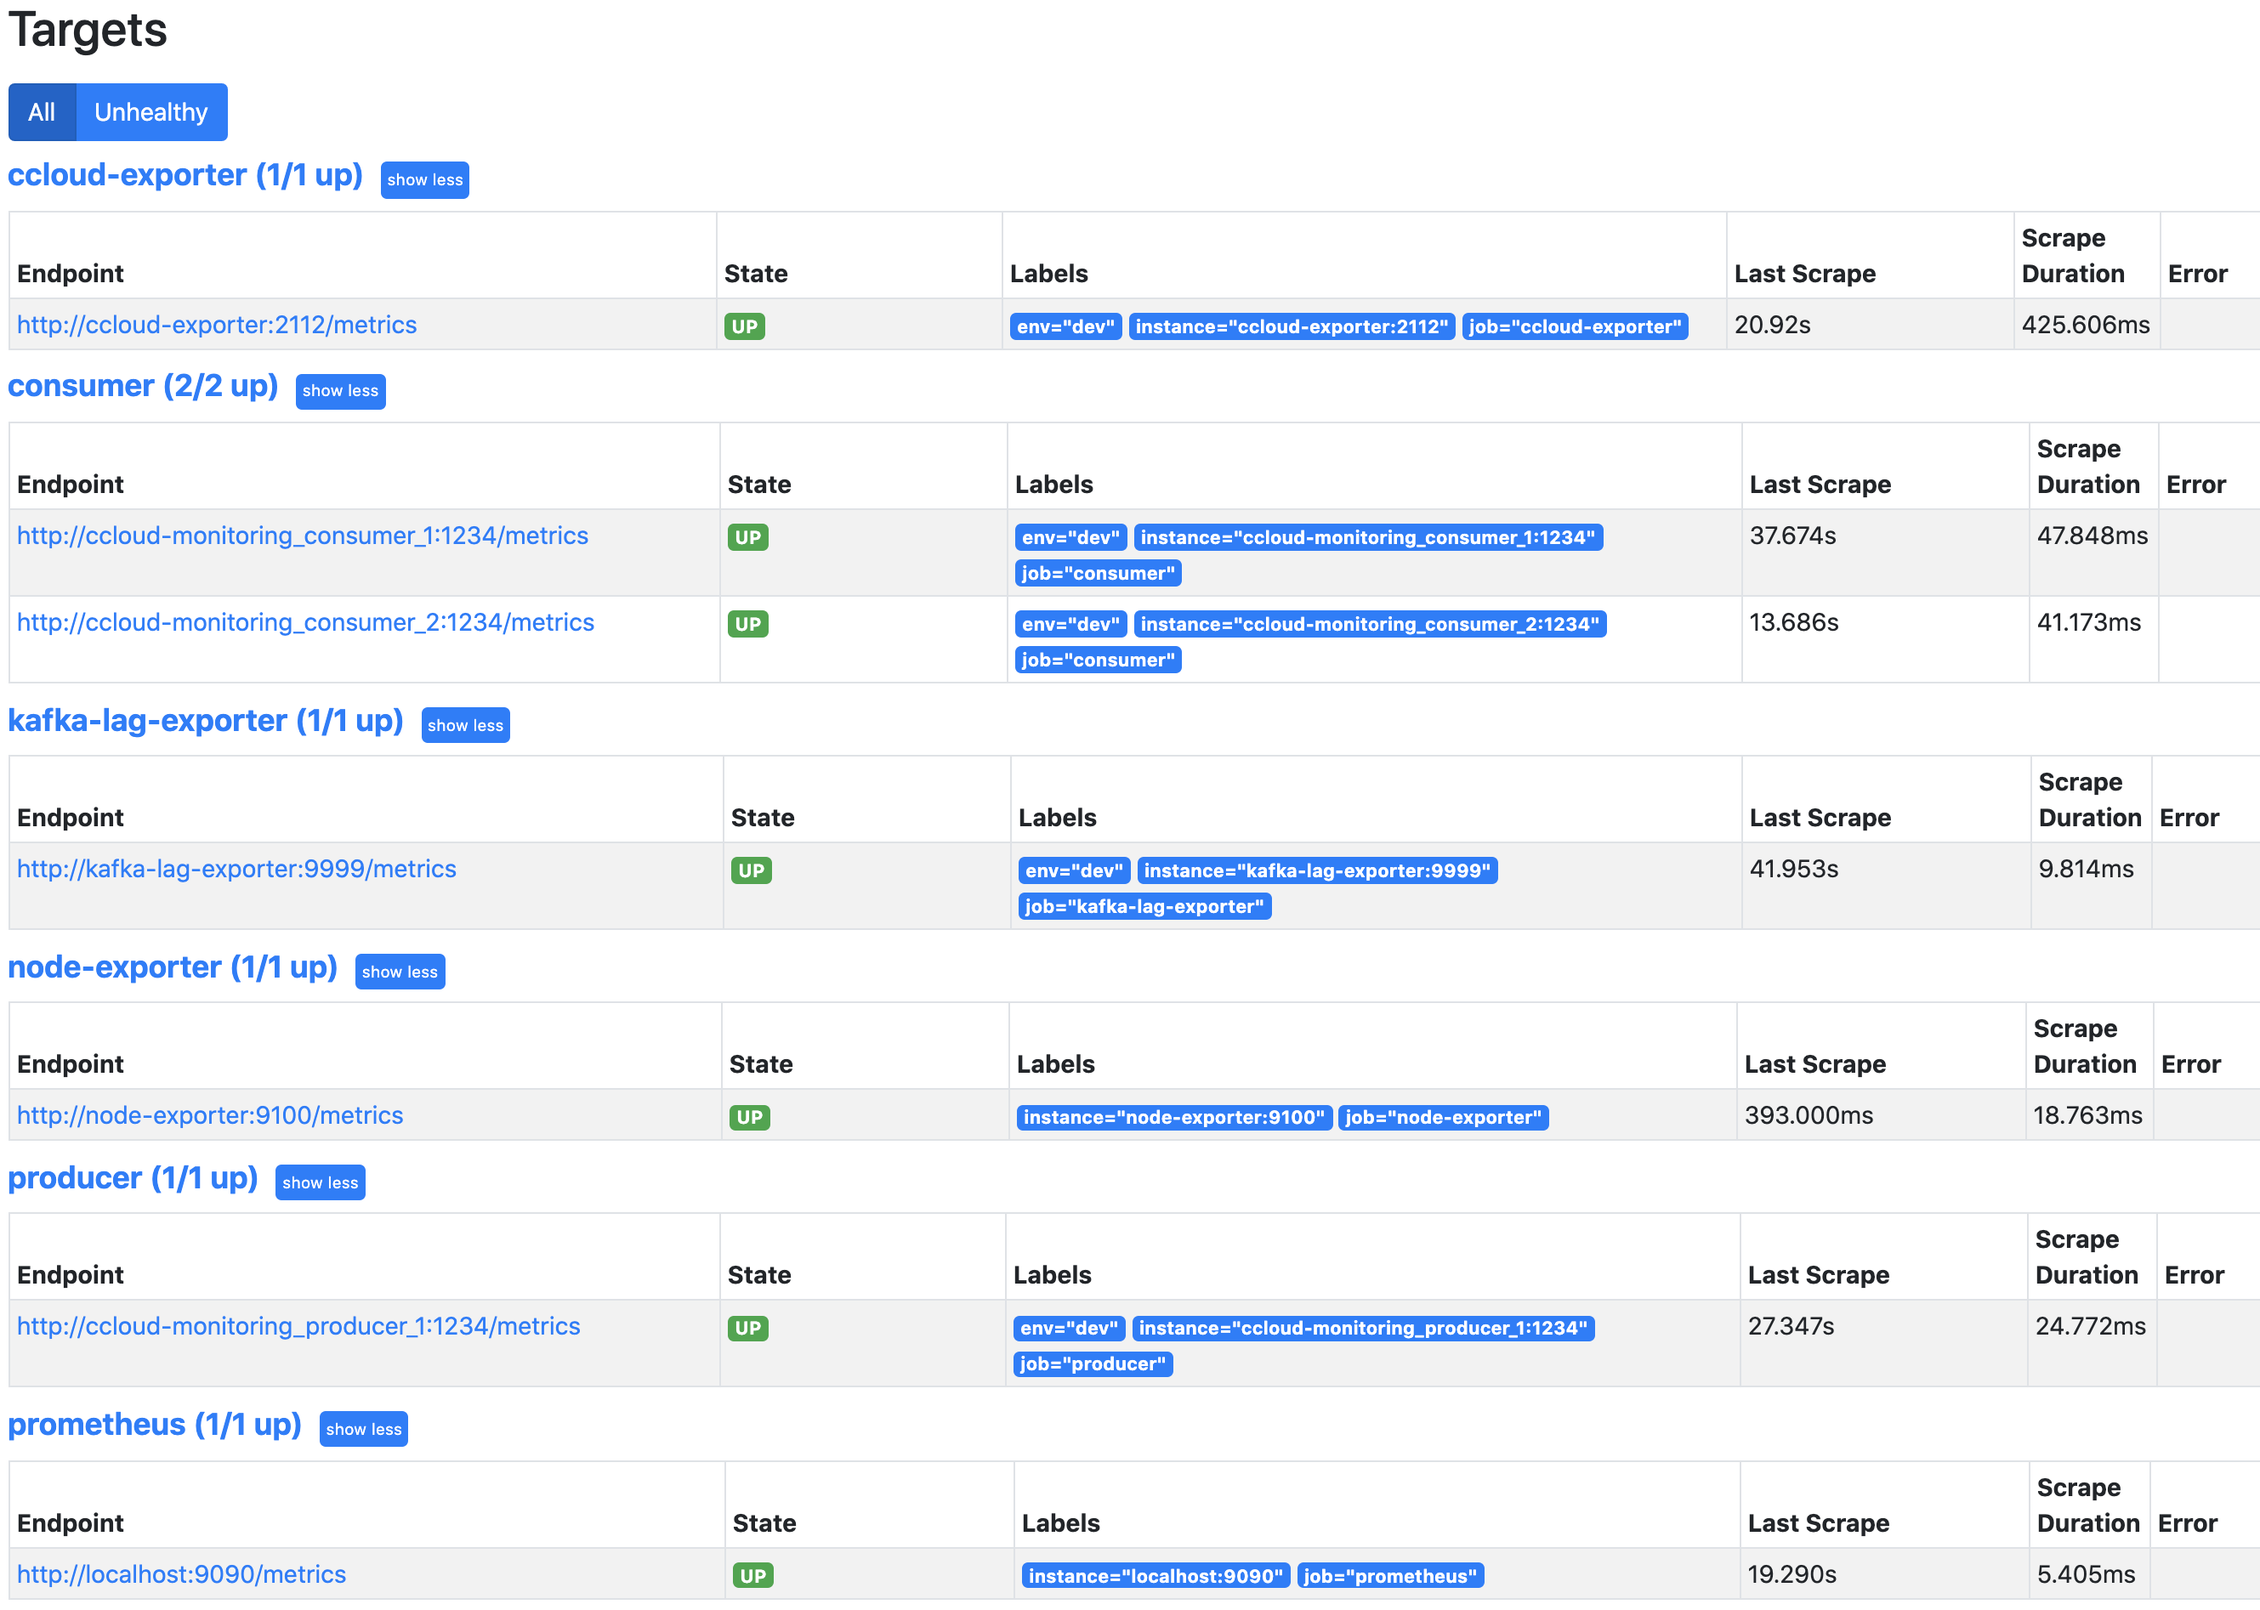
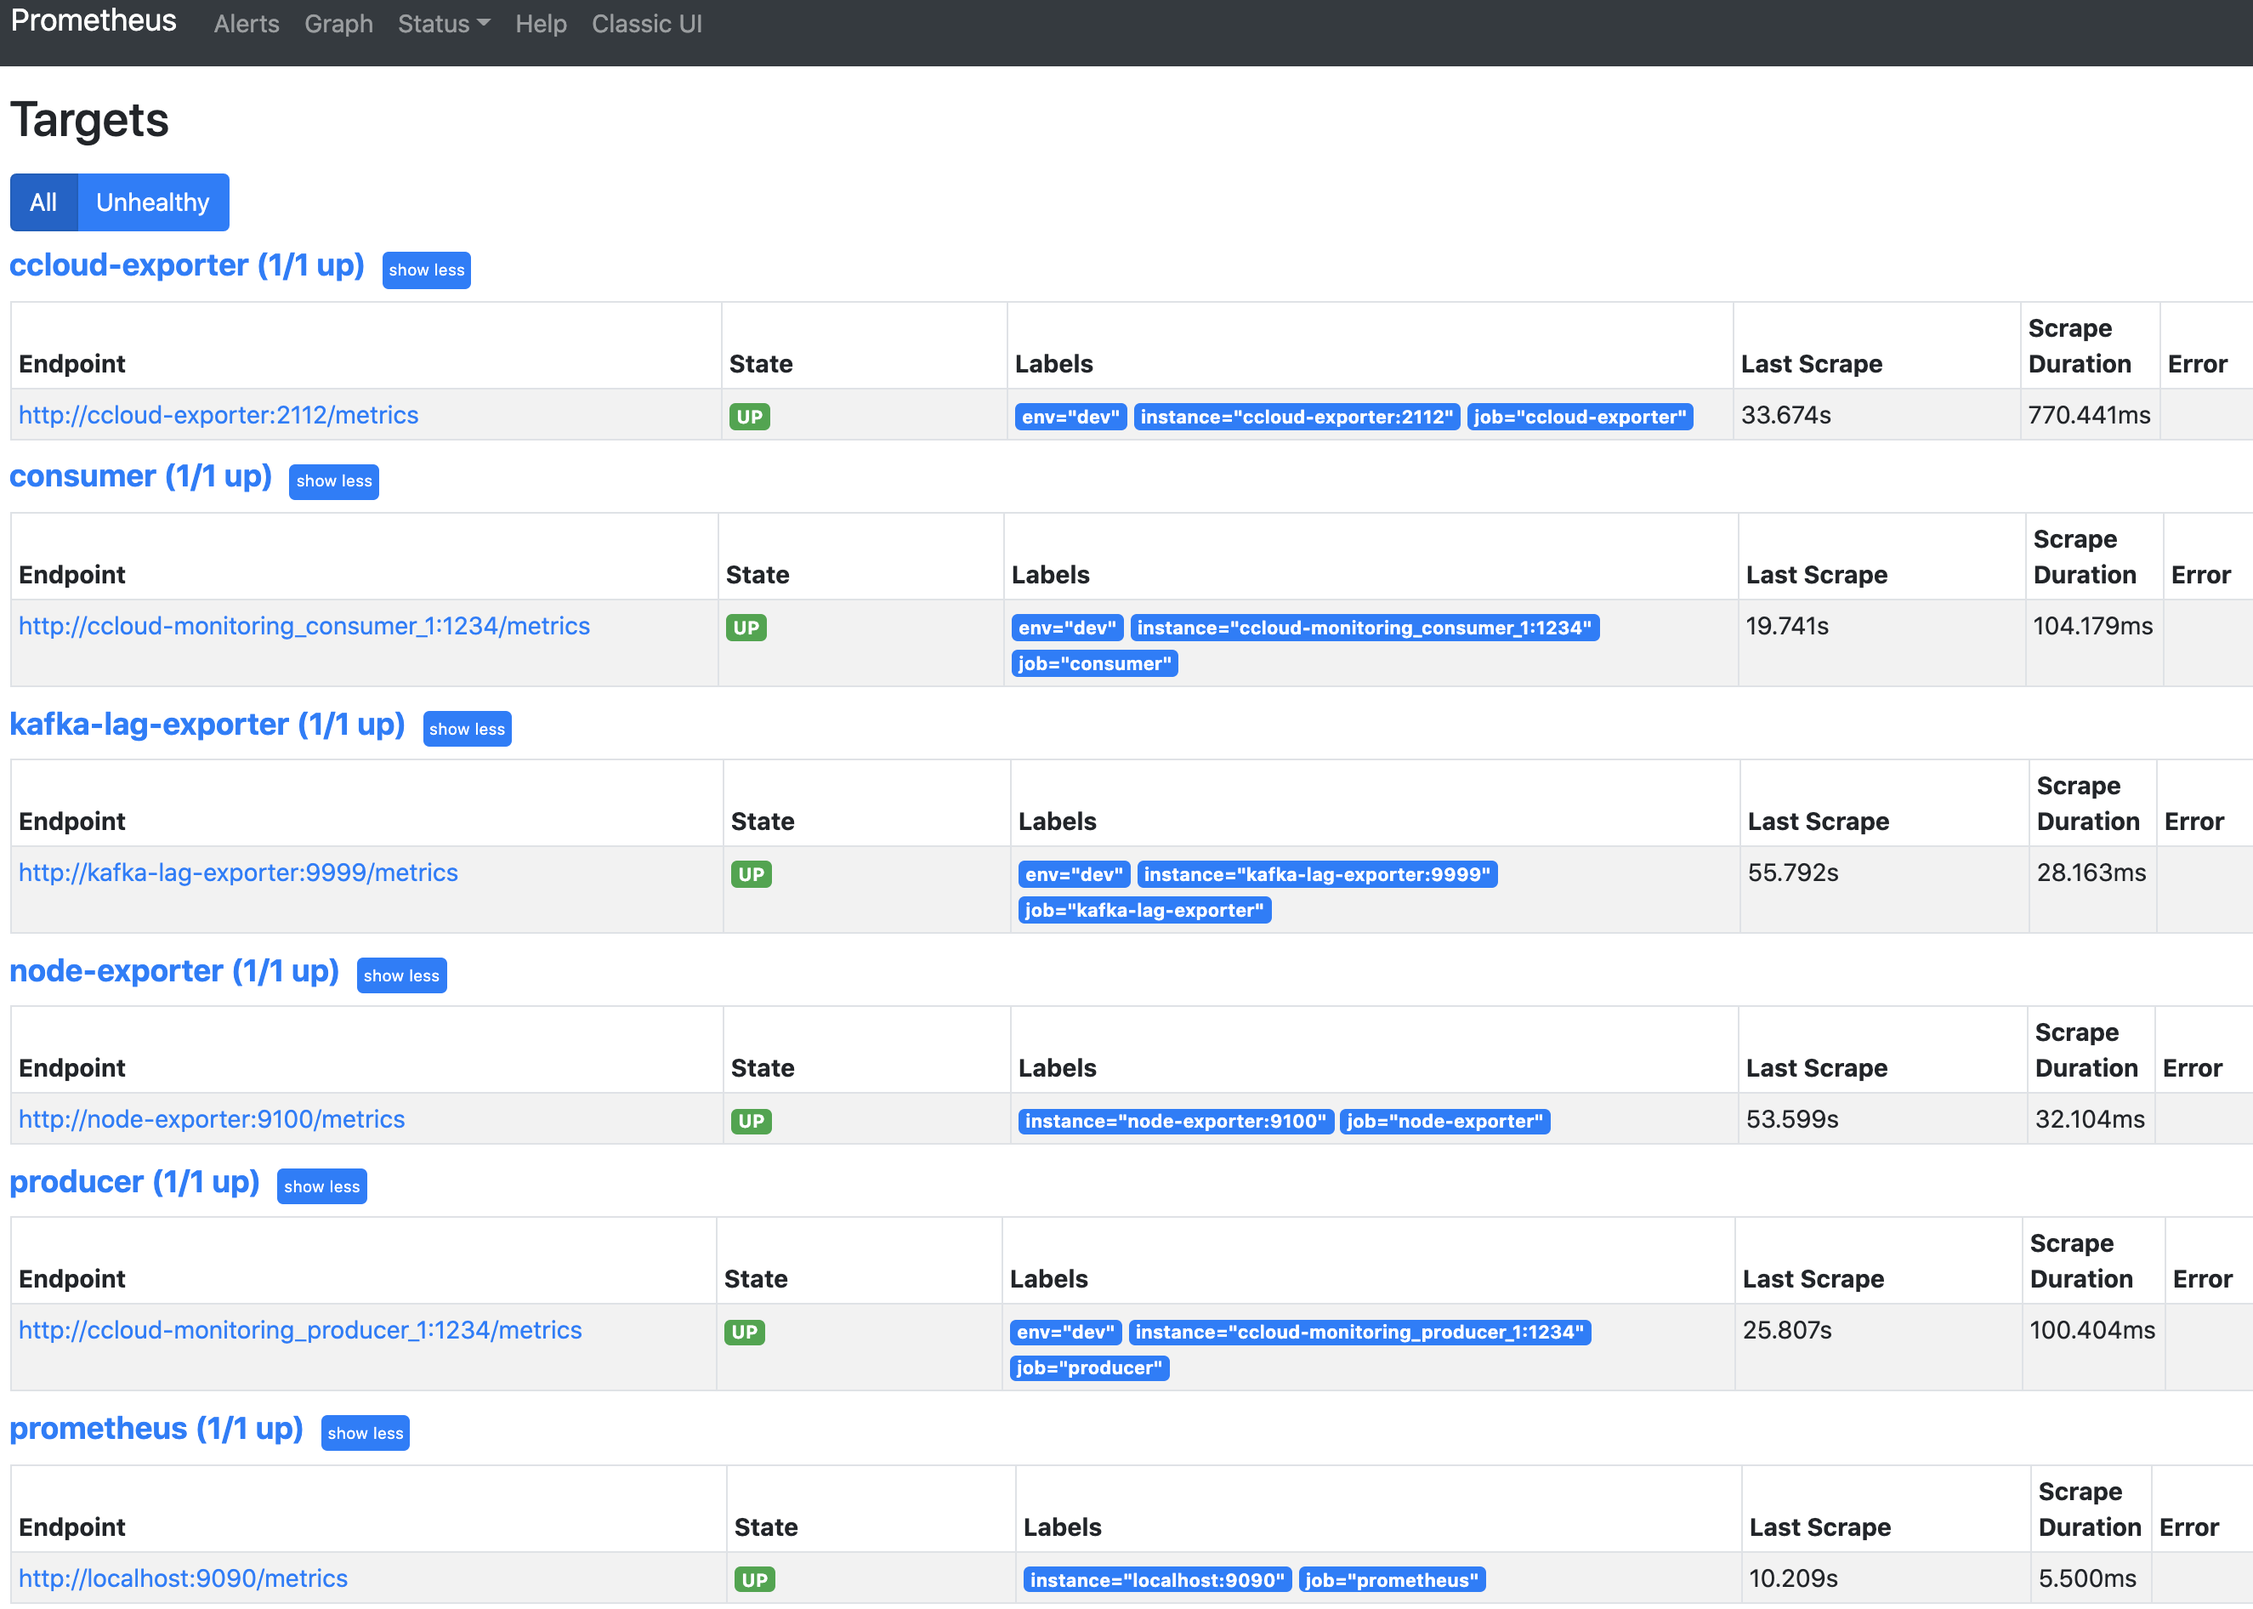
DEVX-2467: start of removal of extra consumer

diff --git a/ccloud-monitoring/docs/consumer-scenarios/increasing-consumer-lag.rst b/ccloud-monitoring/docs/consumer-scenarios/increasing-consumer-lag.rst
@@ -17,12 +17,12 @@ client metrics from the client application’s MBean object ``kafka.consumer:typ
 Introduce failure scenario
 ^^^^^^^^^^^^^^^^^^^^^^^^^^
 
-#. By default 2 consumers and 1 producer are running. Adjust that to 1 consumer and 5 producers in order to show an increase in consumer lag.
+#. By default 1 consumer and 1 producer are running. Adjust that to 1 consumer and 5 producers in order to show an increase in consumer lag.
    The container scaling can be done with the command below:
 
    .. code-block:: bash
 
-      docker-compose up -d --scale consumer=1 --scale producer=5
+      docker-compose up -d --scale producer=5
 
    Which will produce the following output:
 
@@ -33,7 +33,6 @@ Introduce failure scenario
       node-exporter is up-to-date
       grafana is up-to-date
       prometheus is up-to-date
-      Stopping and removing ccloud-monitoring_consumer_2 ... done
       Starting ccloud-monitoring_producer_1              ... done
       Creating ccloud-monitoring_producer_2              ... done
       Creating ccloud-monitoring_producer_3              ... done
@@ -47,10 +46,6 @@ Diagnose the problem
 #. Open `Grafana <localhost:3000>`__ and login with the username ``admin`` and password ``password``.
 
 #. Navigate to the ``Consumer Client Metrics`` dashboard. Wait 2 minutes and then observe:
-
-   - ``Rebalance rate`` (``rebalance-rate-per-hour``) has a bump, indicating that the consumer group ``demo-cloud-monitoring-1`` underwent a rebalance, which is to be expected when a consumer leaves the group.
-
-   |Consumer Rebalance Bump|
 
    - An upward trend in ``Consumer group lag in records``.  ``Consumer group lag in seconds`` will have a less dramatic increase.
      Both indicating that the producer is creating more messages than the consumer can fetch in a timely manner.
@@ -99,22 +94,6 @@ Diagnose the problem
    |Confluent Cloud Request Increase|
 
 #. The consumer logs won't show that the consumer is falling behind which is why it is important to have a robust monitoring solution that covers consumer lag.
-   However, consumer logs will show that the consumer group rebalanced.  The logs can be accessed with the following command:
-
-   .. code-block:: bash
-
-      docker-compose logs consumer
-
-   They should look something like what is below:
-
-   .. code-block:: text
-
-      consumer_1            | [2021-02-24 16:04:45,659] INFO [Consumer clientId=consumer-demo-cloud-monitoring-1-1, groupId=demo-cloud-monitoring-1] Attempt to heartbeat failed since group is rebalancing (org.apache.kafka.clients.consumer.internals.AbstractCoordinator)
-      consumer_1            | [2021-02-24 16:04:45,695] INFO [Consumer clientId=consumer-demo-cloud-monitoring-1-1, groupId=demo-cloud-monitoring-1] Revoke previously assigned partitions demo-topic-1-1, demo-topic-1-2, demo-topic-1-0, demo-topic-1-5, demo-topic-1-3, demo-topic-1-4 (org.apache.kafka.clients.consumer.internals.ConsumerCoordinator)
-      consumer_1            | [2021-02-24 16:04:45,695] INFO [Consumer clientId=consumer-demo-cloud-monitoring-1-1, groupId=demo-cloud-monitoring-1] (Re-)joining group (org.apache.kafka.clients.consumer.internals.AbstractCoordinator)
-      consumer_1            | [2021-02-24 16:04:45,748] INFO [Consumer clientId=consumer-demo-cloud-monitoring-1-1, groupId=demo-cloud-monitoring-1] Successfully joined group with generation Generation{generationId=42, memberId='consumer-demo-cloud-monitoring-1-1-b0bec0b5-ec84-4233-9d3e-09d132b9a3c7', protocol='range'} (org.apache.kafka.clients.consumer.internals.AbstractCoordinator)
-      consumer_1            | [2021-02-24 16:04:45,750] INFO [Consumer clientId=consumer-demo-cloud-monitoring-1-1, groupId=demo-cloud-monitoring-1] Finished assignment for group at generation 42: {consumer-demo-cloud-monitoring-1-1-b0bec0b5-ec84-4233-9d3e-09d132b9a3c7=Assignment(partitions=[demo-topic-1-3, demo-topic-1-4, demo-topic-1-5]), consumer-demo-cloud-monitoring-1-1-261ae825-8cd3-427b-a9f6-cde4849915b1=Assignment(partitions=[demo-topic-1-0, demo-topic-1-1, demo-topic-1-2])} (org.apache.kafka.clients.consumer.internals.ConsumerCoordinator)
-      consumer_1            | [2021-02-24 16:04:45,794] INFO [Consumer clientId=consumer-demo-cloud-monitoring-1-1, groupId=demo-cloud-monitoring-1] Successfully synced group in generation Generation{generationId=42, memberId='consumer-demo-cloud-monitoring-1-1-b0bec0b5-ec84-4233-9d3e-09d132b9a3c7', protocol='range'}  (org.apache.kafka.clients.consumer.internals.AbstractCoordinator)
 
 Resolve failure scenario
 ^^^^^^^^^^^^^^^^^^^^^^^^
@@ -123,7 +102,7 @@ Resolve failure scenario
 
    .. code-block:: bash
 
-      docker-compose up -d --scale consumer=2 --scale producer=1
+      docker-compose up -d --scale producer=1
 
    Which will produce the following output:
 
@@ -139,7 +118,6 @@ Resolve failure scenario
       Stopping and removing ccloud-monitoring_producer_4 ... done
       Stopping and removing ccloud-monitoring_producer_5 ... done
       Starting ccloud-monitoring_consumer_1              ... done
-      Creating ccloud-monitoring_consumer_2              ... done
       Starting ccloud-monitoring_producer_1              ... done
 
 

diff --git a/ccloud-monitoring/docs/monitoring-overview.rst b/ccloud-monitoring/docs/monitoring-overview.rst
@@ -98,7 +98,7 @@ The following instructions will:
 
 -  build a |ak| client docker image with the maven project's dependencies cache
 
--  stand up numerous docker containers (2 consumers with JMX exporter, 1 producer with JMX exporter, Prometheus, Grafana, a ccloud-exporter, and a node-exporter) with ``docker-compose``
+-  stand up numerous docker containers (1 consumer with JMX exporter, 1 producer with JMX exporter, Prometheus, Grafana, a ccloud-exporter, and a node-exporter) with ``docker-compose``
 
 #. Create a |ccloud| cluster by running the following commands. This will take a few minutes:
 
@@ -189,7 +189,7 @@ The following instructions will:
 
    .. code-block:: bash
 
-      docker-compose up -d --scale consumer=2
+      docker-compose up -d
 
    Your output will resemble:
 
@@ -203,7 +203,6 @@ The following instructions will:
       Creating ccloud-exporter              ... done
       Creating ccloud-monitoring_producer_1 ... done
       Creating ccloud-monitoring_consumer_1 ... done
-      Creating ccloud-monitoring_consumer_2 ... done
 
 Validate Setup
 ~~~~~~~~~~~~~~
